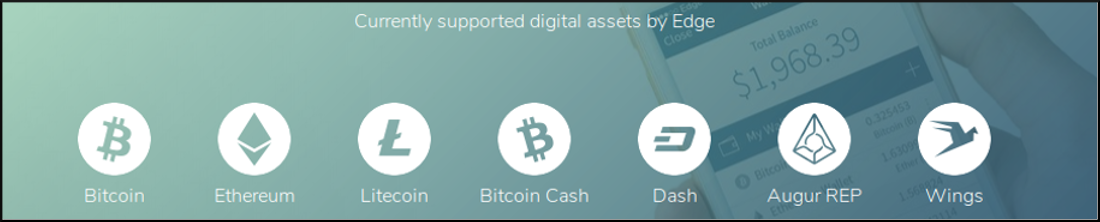
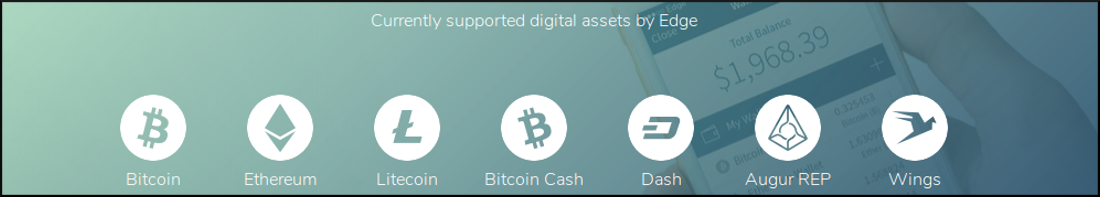
fix borders

diff --git a/reviews-guides/edge-wallet_03-08-18/review-guide_edge-wallet.md b/reviews-guides/edge-wallet_03-08-18/review-guide_edge-wallet.md
@@ -51,7 +51,7 @@ There is much more to be worried about than just data breaches. What if you unlo
 
 Edge wallet can be installed either from the [Play Store](https://play.google.com/store/apps/details?id=co.edgesecure.app), [iTunes](https://itunes.apple.com/us/app/edge-bitcoin-wallet/id1344400091?mt=8), or directly from the [Edge site](https://edgesecure.co).
 
-![edge site downloads pic](/reviews-guides/edge-wallet_03-08-18/edge-wallet-media/edge_site-downloads_croppedx1100.png)
+![edge site downloads pic](/reviews-guides/edge-wallet_03-08-18/edge-wallet-media/edge_site-downloads.png)
 
 On the first run of the app you will need to create an account. These account details encrypt your wallet info on Edge servers in case you lose or break your device. Be sure to back them up safely. You'll need a username, password, and 4 digit pin.
 
